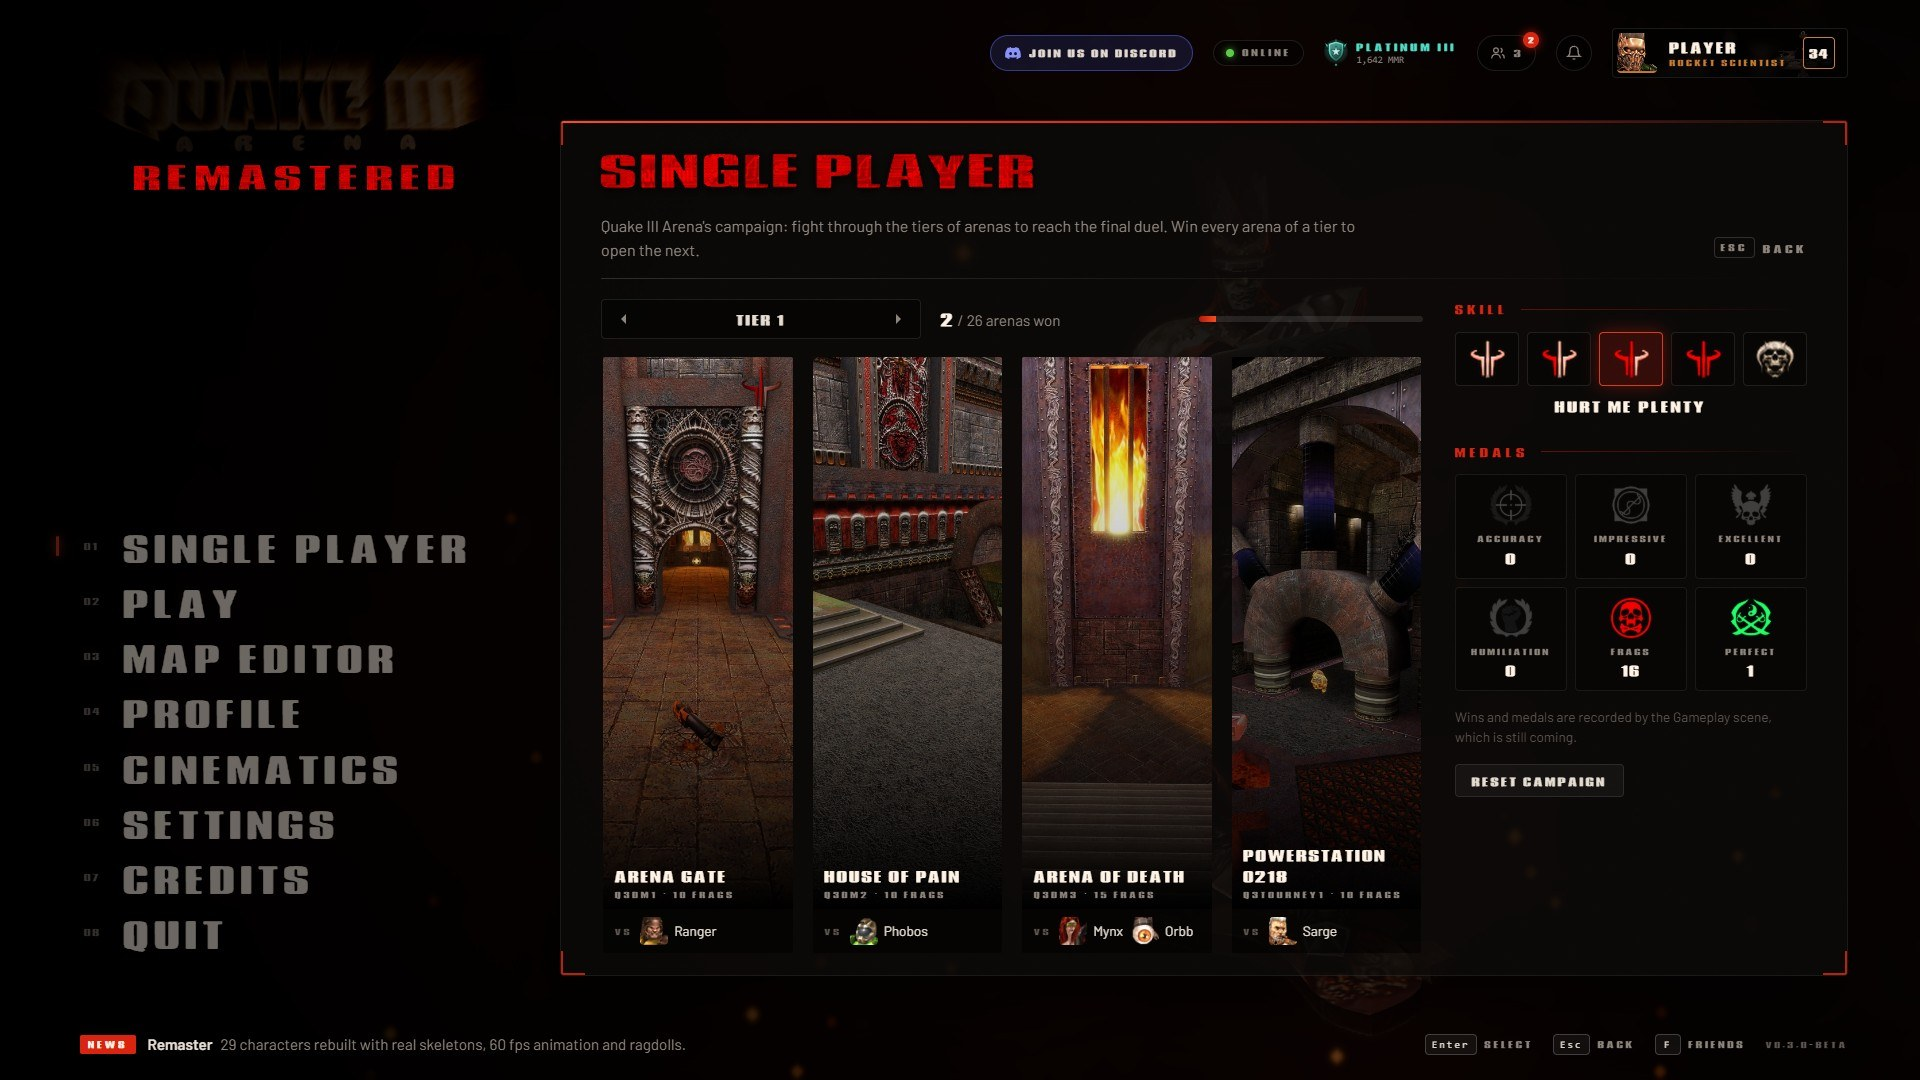
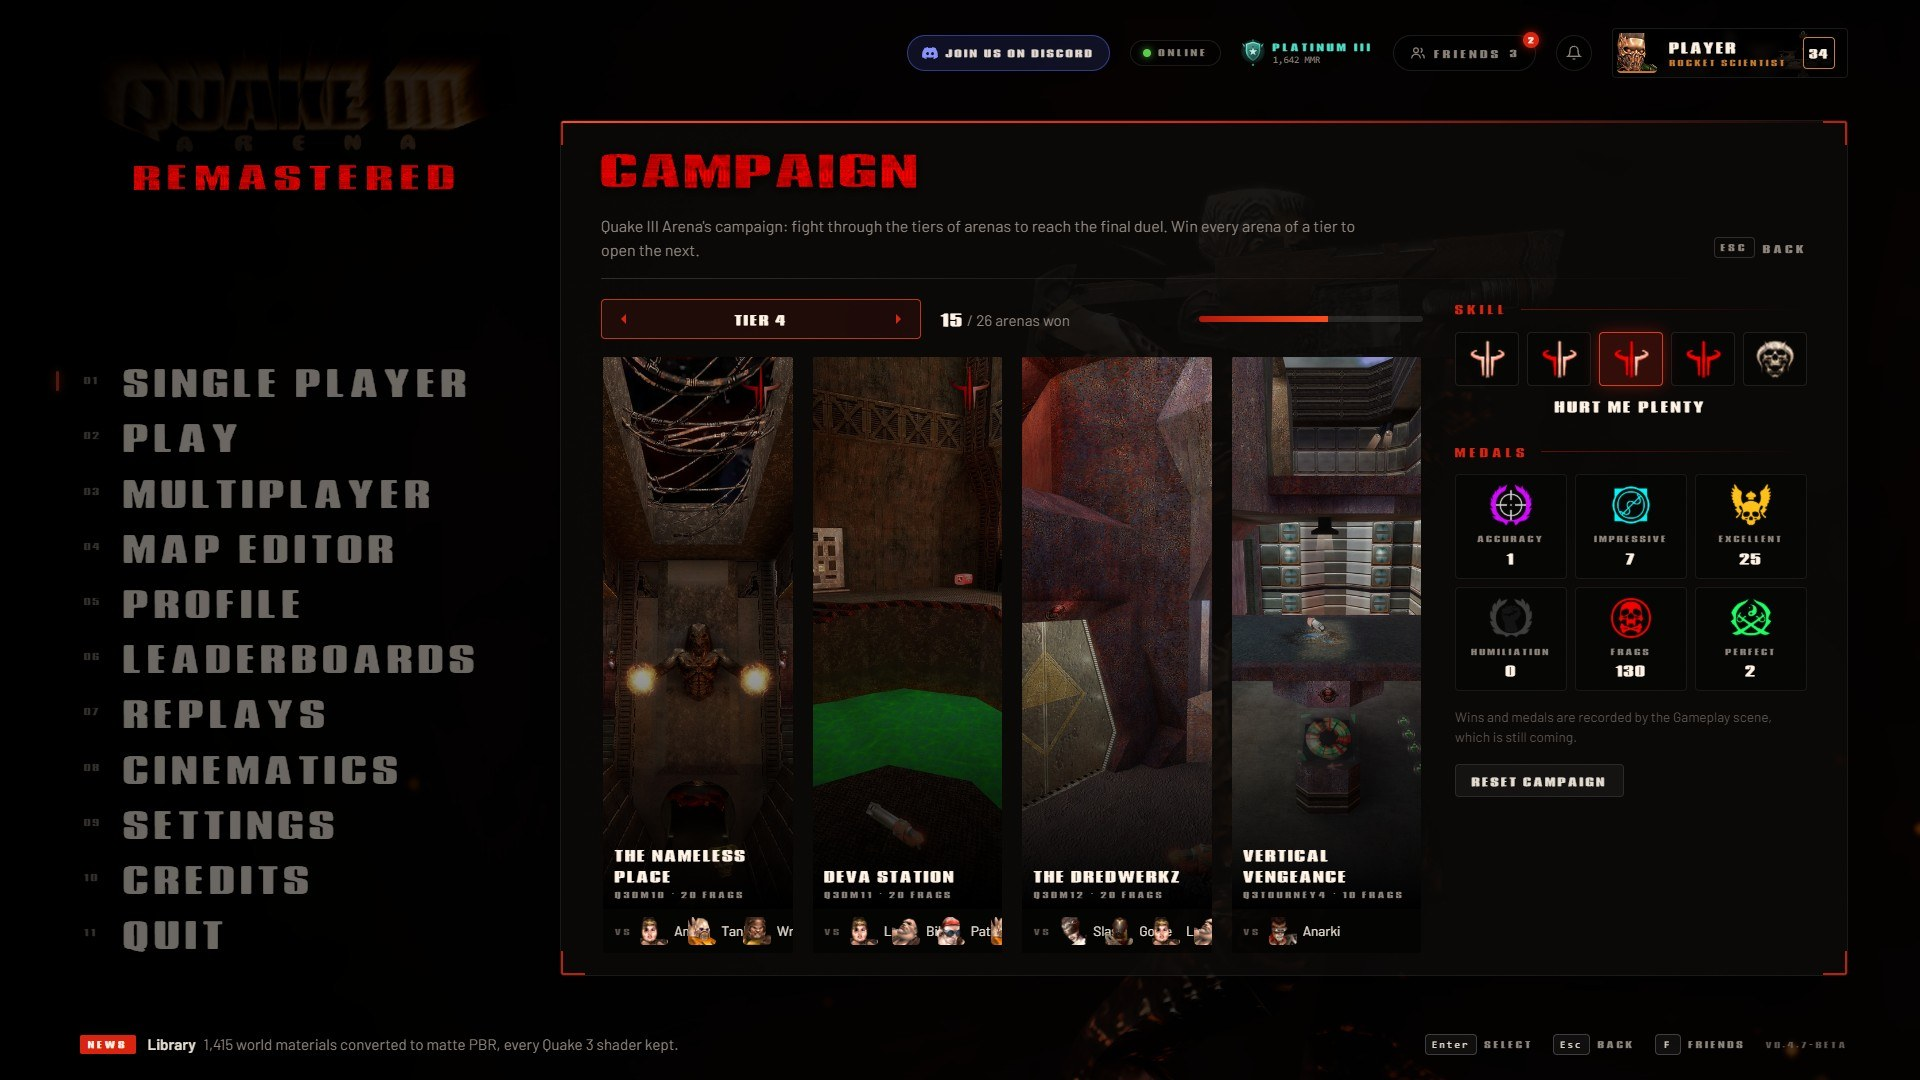
README: new screenshots from v0.4.7, plus Race, race tools and the console
All menu, in-game and map editor shots retaken from the current build
(menus: Godot's 3D layer with the page from headless Chrome laid over it;
matches against bots through tests/screenshots.tscn). The rail and
lightning shots show the glow effects, the Settings shot shows the weapon
effect options, and new shots show a Race run with its ghost, the map
editor's race tools and the developer console.

diff --git a/README.md b/README.md
@@ -12,19 +12,21 @@ Rocket jumps, strafe jumping, rail duels, and Sarge, Xaero and the rest of the r
 
 | | |
 |---|---|
-| ![Main menu](docs/screenshots/menu-main.jpg) | ![Single player campaign](docs/screenshots/menu-single-player.jpg) |
-| **Main menu:** a fighter or item turning in a smoky void, with Quake 3's own menu sounds and its soundtrack on shuffle | **Single player:** id's campaign, tier by tier, with skill levels and medals |
+| ![Main menu](docs/screenshots/menu-main.jpg) | ![Campaign](docs/screenshots/menu-single-player.jpg) |
+| **Main menu:** a fighter or item turning in a smoky void, with Quake 3's own menu sounds and its soundtrack on shuffle | **Campaign:** id's single player campaign, tier by tier, with skill levels and medals |
 | ![Create match](docs/screenshots/menu-create-match.jpg) | ![Profile](docs/screenshots/menu-profile.jpg) |
 | **Create match:** every mode, map and rule, with modifiers on top | **Profile:** your player card, with banners, emblems, frames and titles you earn by playing |
 
 ![Settings](docs/screenshots/menu-settings.jpg)
+
+**Settings:** search every option, with a description of each. The weapon effects can be Quake 3's classic look or glowing rail and lightning beams, missile trails with a burning core, and explosions with flying embers and smoke.
 
 ### In game
 
 | | |
 |---|---|
 | ![The Longest Yard, railgun](docs/screenshots/game-longest-yard-railgun.jpg) | ![The Longest Yard, lightning gun](docs/screenshots/game-longest-yard-lightning.jpg) |
-| **The Longest Yard** (q3dm17), railgun | **The Longest Yard**, lightning gun |
+| **The Longest Yard** (q3dm17), a glowing rail | **The Longest Yard**, the glowing lightning gun |
 | ![The Campgrounds](docs/screenshots/game-campgrounds.jpg) | ![Temple of Retribution](docs/screenshots/game-temple-of-retribution.jpg) |
 | **The Campgrounds** (q3dm6) | **Temple of Retribution** (q3dm7) |
 | ![Lost World](docs/screenshots/game-lost-world.jpg) | ![The Proving Grounds](docs/screenshots/game-proving-grounds.jpg) |
@@ -98,6 +100,11 @@ Most remakes copy the original from memory. This one runs id Software's own game
   - Your best run is kept for every course and races beside you as a ghost.
   - Plays Defrag courses you drop into the Maps folder.
   - Build your own in the map editor: start and finish lines and checkpoints in a click each, a check that the course works, and a play-test with the timer.
+
+  | | |
+  |---|---|
+  | ![Race: a run against your ghost](docs/screenshots/race-run.jpg) | ![Map editor: race tools](docs/screenshots/editor-race.jpg) |
+  | **A run:** the timer, your best time, and the ghost of your best run ahead of you | **Race tools in the map editor:** start line, checkpoint and finish line placed, and the course checked |
 - **Spectating:** follow anyone in a live match, switch to a chase camera, or let an auto-director follow the action. The cinematic camera films the match like a broadcast by itself: slow orbits, tracking shots and wide shots of the fight, cutting to the frags.
 - **Death cam:** when you're fragged, the camera follows your body as it falls, then shows who got you with their player card.
 - **Match stats:** the Tab scoreboard shows your match: damage and accuracy with every weapon, distance traveled and your medals.
@@ -109,6 +116,9 @@ Most remakes copy the original from memory. This one runs id Software's own game
   - Build your own card from about 380 Quake 3-themed banners, emblems, frames, titles, accent colors, rail colors and taunts.
   - Every match played to the end earns XP, bots included. Levels and 89 achievements unlock new parts, and the Profile shows what each locked part needs.
   - Your card appears on the scoreboard and the results screen. Progression is cosmetic only and never changes the game.
+- **Developer console:** Quake 3's drop-down console on the key under Esc, with the original commands, binds and config files.
+
+  ![Developer console](docs/screenshots/console.jpg)
 - **Controller support** in the menus and in matches, with a southpaw stick layout.
 - **Competitive options:** item respawn timers, bright enemy skins, one forced enemy model, gun position and field of view, hit sounds pitched by damage, mouse acceleration and a lagometer.
 - **Accessibility:** colorblind filters, subtitles for the announcer, and a reduced-flashing mode.
